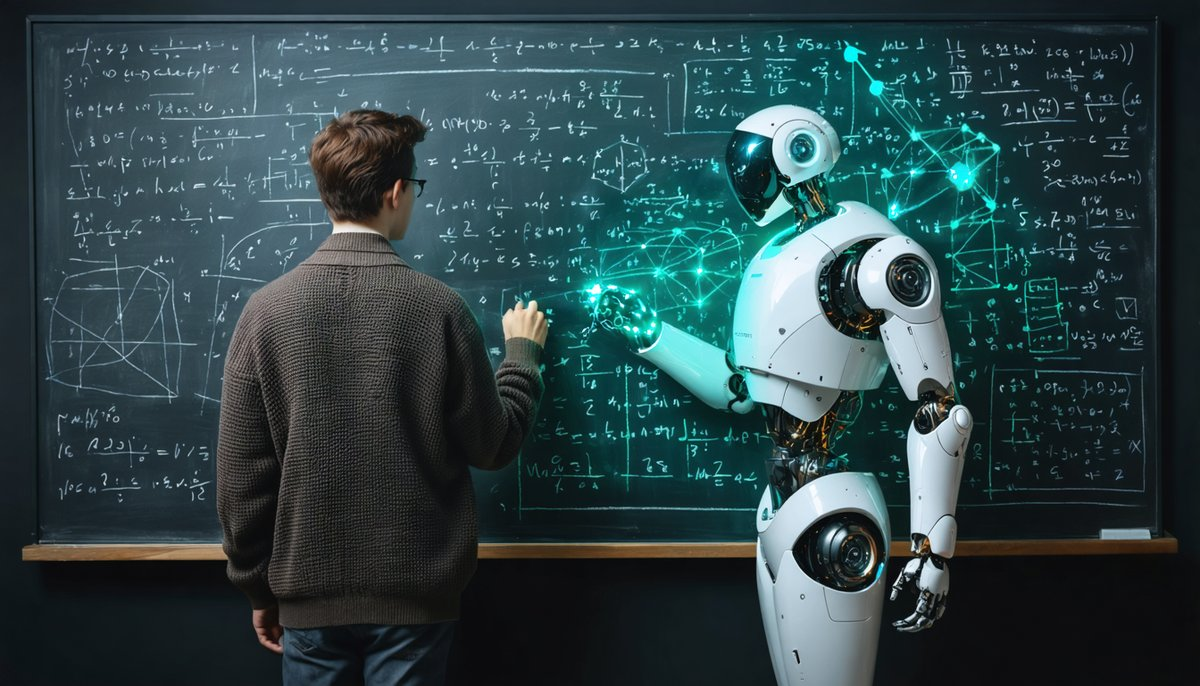
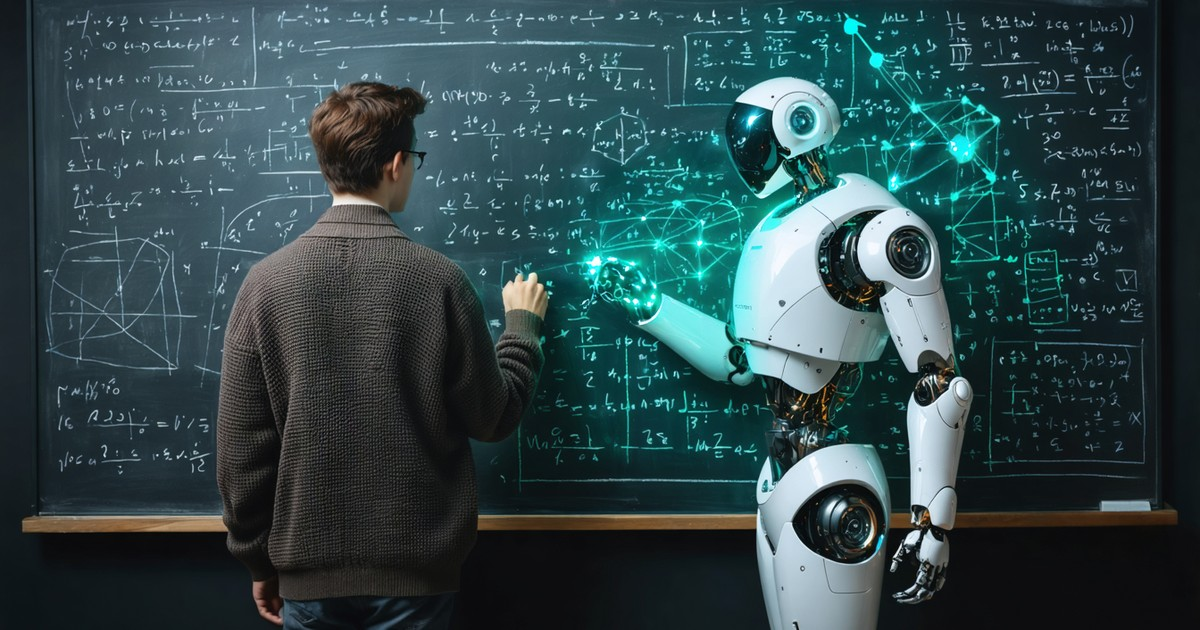
JIWA: og image 1200x630 like Agora, drop size tags

Changed region(s): [[0.0, 0.0, 0.9867, 1.0], [0.0308, 0.5127, 0.1233, 0.573], [0.37, 0.6635, 0.4008, 0.6937]]

diff --git a/layouts/jiwa/single.en.html b/layouts/jiwa/single.en.html
@@ -1,11 +1,9 @@
-{{/* 2026-09-29 SNS（LinkedIn・X）のリンクのカードに画像を出す。thumbnail と同じ名前の軽いJPEG（static/img/jiwa/og/、幅1200px）を og:image にする。
+{{/* 2026-09-29 SNS（LinkedIn・X）のリンクのカードに画像を出す。thumbnail と同じ名前の軽いJPEG（static/img/jiwa/og/、幅1200px・高さ630px＝Agoraの画像と同じ比率）を og:image にする。
      ★もとは og:image が無く、カードが文字だけになっていた。 */}}
 {{ define "head" }}
 {{ with .Params.thumbnail }}
 {{ $og := printf "img/jiwa/og/%s" (replace (path.Base .) ".png" ".jpg") }}
 <meta property="og:image" content="{{ $og | absURL }}">
-<meta property="og:image:width" content="1200">
-<meta property="og:image:height" content="686">
 <meta property="twitter:image" content="{{ $og | absURL }}">
 {{ end }}
 {{ end }}

diff --git a/layouts/jiwa/single.html b/layouts/jiwa/single.html
@@ -1,11 +1,9 @@
-{{/* 2026-09-29 SNS（LinkedIn・X）のリンクのカードに画像を出す。thumbnail と同じ名前の軽いJPEG（static/img/jiwa/og/、幅1200px）を og:image にする。
+{{/* 2026-09-29 SNS（LinkedIn・X）のリンクのカードに画像を出す。thumbnail と同じ名前の軽いJPEG（static/img/jiwa/og/、幅1200px・高さ630px＝Agoraの画像と同じ比率）を og:image にする。
      ★もとは og:image が無く、カードが文字だけになっていた。 */}}
 {{ define "head" }}
 {{ with .Params.thumbnail }}
 {{ $og := printf "img/jiwa/og/%s" (replace (path.Base .) ".png" ".jpg") }}
 <meta property="og:image" content="{{ $og | absURL }}">
-<meta property="og:image:width" content="1200">
-<meta property="og:image:height" content="686">
 <meta property="twitter:image" content="{{ $og | absURL }}">
 {{ end }}
 {{ end }}
